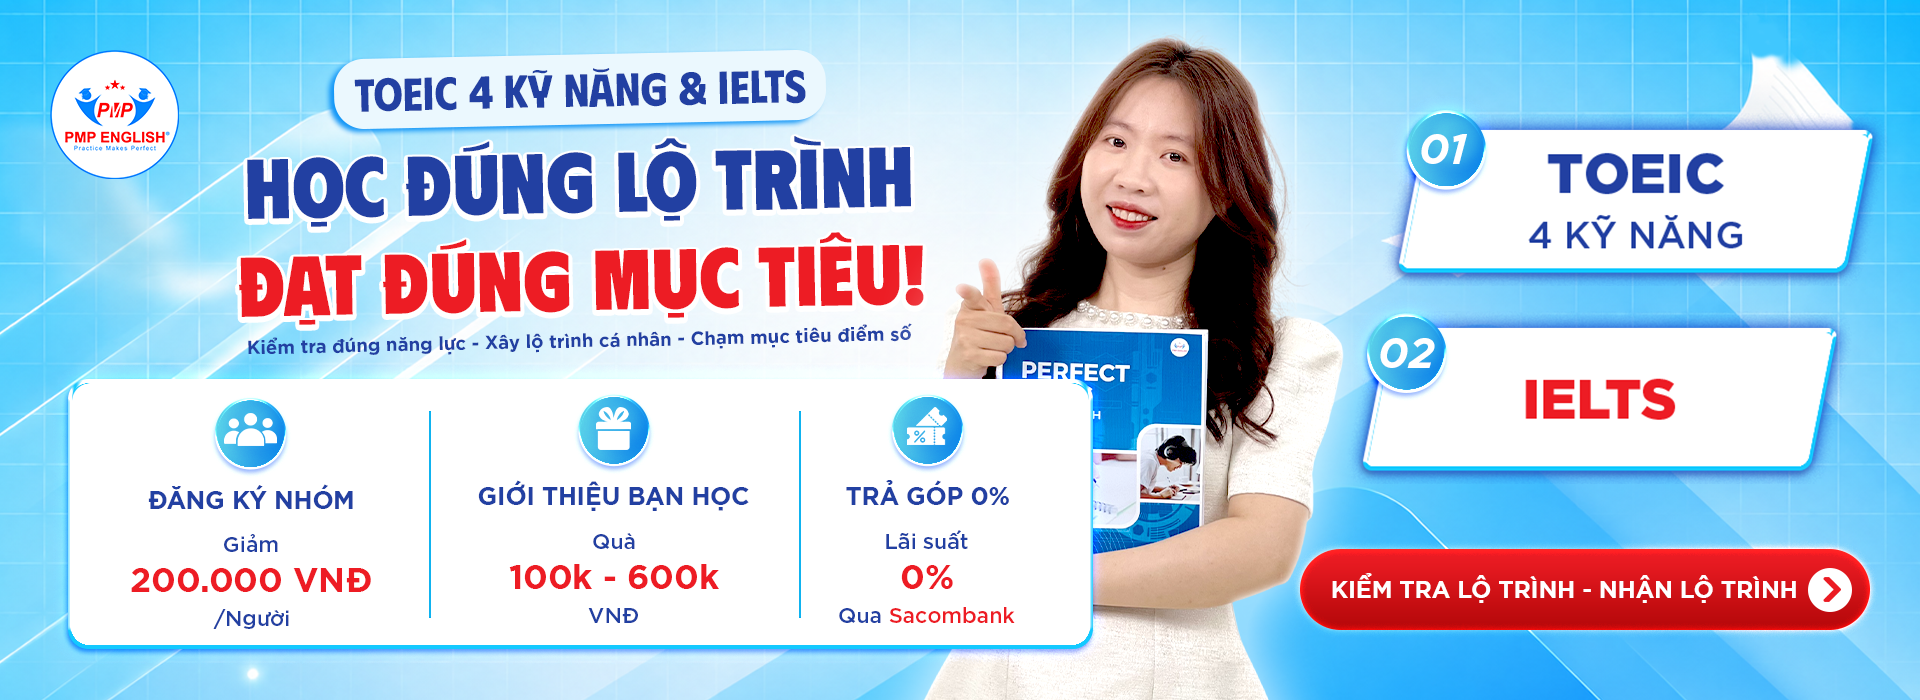
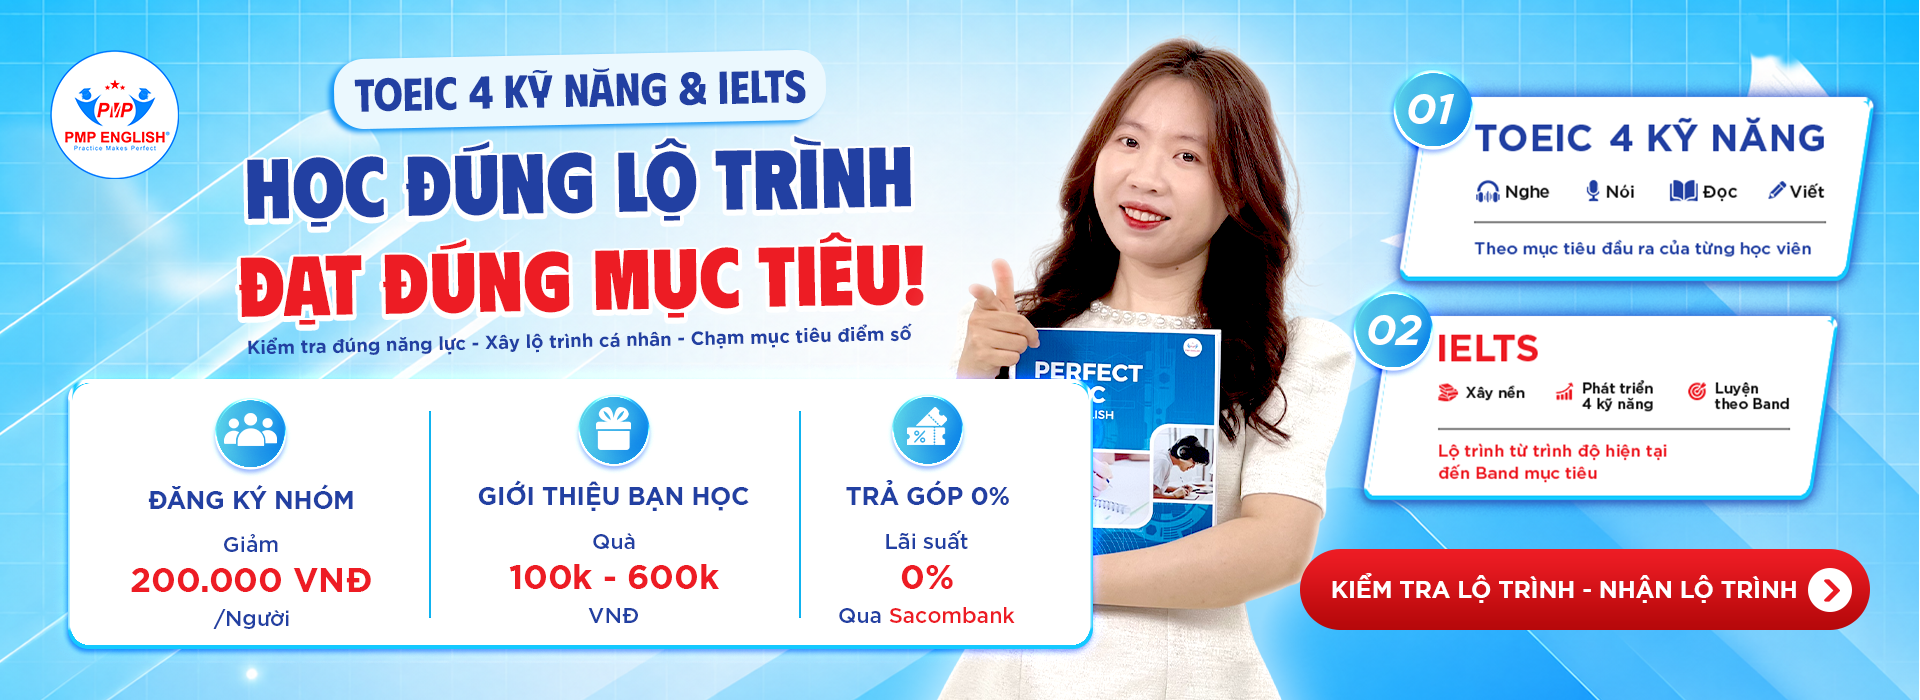
up

diff --git a/index.html b/index.html
@@ -615,7 +615,46 @@
     object-fit: contain;
   }
 }
+/* =========================
+   SCROLL REVEAL ANIMATION
+========================= */
 
+.reveal-left,
+.reveal-right,
+.reveal-up,
+.reveal-down {
+  opacity: 0;
+  transition: 
+    opacity .8s ease,
+    transform .8s ease;
+}
+
+
+/* vị trí ban đầu */
+
+.reveal-left {
+  transform: translateX(-60px);
+}
+
+.reveal-right {
+  transform: translateX(60px);
+}
+
+.reveal-up {
+  transform: translateY(60px);
+}
+
+.reveal-down {
+  transform: translateY(-60px);
+}
+
+
+/* trạng thái hiện */
+
+.reveal-show {
+  opacity: 1;
+  transform: translate(0);
+}
 
 /* =========================================
    DESKTOP
@@ -1195,8 +1234,11 @@ window.addEventListener('scroll', () => {
 </script>
 <!-- 01. SECTION HERO BANNER -->
 <section>
-  <img src="./assets/LANDING PAGE 5-01.png" alt="" class="hidden sm:block w-[100%] h-full">
-  <img src="./assets/Untitled design (5).png" alt="" class="block sm:hidden w-[100%] h-full">
+ <a href="#uu-dai-chinh-sach">
+   <img src="./assets/LANDING PAGE 5-01.png" alt="" class="hidden sm:block w-[100%] h-full">
+     <img src="./assets/Untitled design (5).png" alt="" class="block sm:hidden w-[100%] h-full">
+
+ </a>
 </section>
 <!--  -->
 <section
@@ -1207,7 +1249,7 @@ window.addEventListener('scroll', () => {
   <div class="mx-auto max-w-7xl">
 
     <h2
-      class="font-headline-lg-mobile text-headline-lg-mobile text-black
+      class="font-headline-lg-mobile text-headline-lg-mobile text-black reveal-down  
              text-center capitalize
              md:font-headline-lg md:text-headline-lg"
     >
@@ -1222,7 +1264,7 @@ window.addEventListener('scroll', () => {
 
 
     <!-- SLIDER WRAPPER -->
-    <div class="feature-slider mt-3 md:mt-7">
+    <div class="feature-slider mt-3 md:mt-7 reveal-up  ">
 
       <!-- VIEWPORT -->
       <div class="feature-slider-viewport">
@@ -1769,26 +1811,26 @@ startAutoplay();
 
  <section class="overflow-hidden bg-white px-4  md:px-16">
     <div class="mx-auto max-w-7xl ">
-      <header class="text-center">
+      <header class="text-center reveal-down">
        
         <h2 class="mt-3 font-headline-lg-mobile text-headline-lg-mobile text-black md:font-headline-lg
   text-center
-  md:text-headline-lg capitalize">
+  md:text-headline-lg capitalize ">
           Đừng bắt đầu bằng việc chọn khóa học
         </h2>
         <p class="mx-auto mt-3 max-w-2xl text-sm leading-6 text-on-surface-variant md:text-base">
           Hãy bắt đầu bằng việc xác định đúng trình độ, đúng mục tiêu và đúng lộ trình để không mất thời gian học lan man.
         </p>
-        <div class="mx-auto mt-4 flex w-24 items-center gap-2 text-primary" aria-hidden="true">
+        <!-- <div class="mx-auto mt-4 flex w-24 items-center gap-2 text-primary" aria-hidden="true">
           <span class="h-0.5 flex-1 bg-primary"></span><span class="h-2 w-2 rounded-full bg-primary"></span><span class="h-0.5 flex-1 bg-primary"></span>
-        </div>
+        </div> -->
       </header>
 
       <div>
   <img
     src="./assets/banner34.png"
     alt="Lộ trình học PMP English"
-    class="w-full cursor-pointer transition duration-300 hover:opacity-90"
+    class="w-full cursor-pointer transition duration-300 hover:opacity-90 reveal-up"
     onclick="openModal(['./assets/banner34.png'], 0)"
   >
 </div>
@@ -1850,7 +1892,7 @@ startAutoplay();
   <div class="relative z-10 mx-auto max-w-[1180px]">
 
     <!-- Tiêu đề -->
-    <div class="mx-auto mb-3 sm:mb-6 max-w-[760px] text-center">
+    <div class="mx-auto mb-3 sm:mb-6 max-w-[760px] text-center reveal-down">
       <h2
         class="mt-3 font-headline-lg-mobile text-headline-lg-mobile text-black md:font-headline-lg
   text-center
@@ -1881,7 +1923,7 @@ startAutoplay();
          border border-primary/20 bg-white p-3
          shadow-[0_14px_45px_rgba(0,174,239,.10)]
          transition duration-300 hover:-translate-y-1
-         hover:shadow-[0_20px_55px_rgba(0,174,239,.16)]"
+         hover:shadow-[0_20px_55px_rgba(0,174,239,.16)] reveal-left"
 >
 <!-- Phần cover -->
 <div
@@ -2030,7 +2072,7 @@ startAutoplay();
          border border-secondary/20 bg-white p-3
          shadow-[0_14px_45px_rgba(237,28,36,.10)]
          transition duration-300 hover:-translate-y-1
-         hover:shadow-[0_20px_55px_rgba(237,28,36,.16)]"
+         hover:shadow-[0_20px_55px_rgba(237,28,36,.16)] reveal-right"
 >
   <!-- Phần cover -->
  <div
@@ -2168,14 +2210,14 @@ startAutoplay();
     <!-- HEADING -->
     <!-- ===================================================== -->
 
-    <div class="mx-auto mb-4  text-center">
+    <div class="mx-auto mb-4  text-center reveal-down">
 
 
 
       <h2
        class="font-headline-lg-mobile text-headline-lg-mobile text-black md:font-headline-lg
   text-center
-  md:text-headline-lg capitalize"
+  md:text-headline-lg capitalize "
       >
       Học Viên Nói Gì Và Đạt Được Gì Tại PMP
     </h2>
@@ -2191,7 +2233,7 @@ startAutoplay();
     <!-- SCORE -->
     <!-- ===================================================== -->
 
-    <div class="mb-3 sm:mb-8">
+    <div class="mb-3 sm:mb-8 reveal-up">
 
       <!-- <div class="mb-8 text-center md:text-left">
 
@@ -2319,7 +2361,7 @@ startAutoplay();
 
     <div class="mb-3 sm:mb-8">
 
-      <div class="mb-3 sm:mb-8 text-center">
+      <div class="mb-3 sm:mb-8 text-center reveal-down">
 
         <h3 class="font-headline-lg-mobile text-headline-lg-mobile text-black md:font-headline-lg
   text-center
@@ -2334,7 +2376,7 @@ startAutoplay();
       </div>
 
 
-      <div class="slider-wrapper">
+      <div class="slider-wrapper reveal-up">
 
         <div
           id="feedbackTrack"
@@ -2373,7 +2415,7 @@ startAutoplay();
   <div>
 
 <!-- Heading -->
-<div class="mb-3 sm:mb-8 text-center">
+<div class="mb-3 sm:mb-8 text-center reveal-down">
 
 
   <h3       class="font-headline-lg-mobile text-headline-lg-mobile text-black md:font-headline-lg
@@ -2388,7 +2430,7 @@ startAutoplay();
 <!-- =========================
      VIDEO 1 - VIDEO CHÍNH
 ========================= -->
-<div class="w-full overflow-hidden rounded-2xl bg-primary soft-shadow">
+<div class="w-full overflow-hidden rounded-2xl bg-primary soft-shadow reveal-up">
 
   <a
     href="https://www.youtube.com/watch?v=B5TiRR4YrIk&list=PLeq9KzPj5hMAtFBc28dHOWflrG7FDwinR"
@@ -2422,7 +2464,7 @@ startAutoplay();
 
 
   <!-- YouTube channel -->
-  <div class="flex justify-center">
+  <div class="flex justify-center reveal-up">
 
     <a
       href="https://www.youtube.com/watch?v=B5TiRR4YrIk&list=PLeq9KzPj5hMAtFBc28dHOWflrG7FDwinR"
@@ -5365,7 +5407,7 @@ document.addEventListener("DOMContentLoaded", function () {
   <div class="mx-auto max-w-7xl ">
 
     <!-- Tiêu đề -->
-    <header class="text-center">
+    <header class="text-center reveal-down">
      
 
       <h2
@@ -5383,7 +5425,7 @@ document.addEventListener("DOMContentLoaded", function () {
     </header>
 
     <!-- Danh sách giảng viên -->
-    <div class="mt-3 sm:mt-8 grid grid-cols-1 gap-6 md:grid-cols-2">
+    <div class="mt-3 sm:mt-8 grid grid-cols-1 gap-6 md:grid-cols-2 reveal-up">
 
       <!-- BOX 01 -->
    <article
@@ -5916,11 +5958,11 @@ document.addEventListener("DOMContentLoaded", function () {
           Nguyễn Minh Anh
         </strong>
 
-        tại
+        <!-- tại -->
 
-        <span id="studentToastLocation">
+        <!-- <span id="studentToastLocation">
           TP.HCM
-        </span>
+        </span> -->
 
         vừa đăng ký khóa
 
@@ -6248,7 +6290,7 @@ document.addEventListener("DOMContentLoaded", function () {
      DESKTOP: GRID
 ========================================= -->
 
-<section class="bg-surface-container-low px-4 py-8 md:px-16 md:py-10">
+<section class="bg-surface-container-low px-4 py-8 md:px-16 md:py-10 reveal-down">
 
   <div class="mx-auto max-w-7xl">
 
@@ -7470,7 +7512,7 @@ document.addEventListener("DOMContentLoaded", function () {
 
     <div class="relative mx-auto max-w-7xl px-4 sm:px-6 lg:px-8">
       <div class="grid items-start gap-8 lg:grid-cols-[0.8fr_1.2fr] lg:gap-14">
-        <div class="lg:sticky lg:top-8 hidden sm:block">
+        <div class="lg:sticky lg:top-8 hidden sm:block reveal-left">
           <div class="mb-5 inline-flex hidden sm:inline-flex items-center gap-2 rounded-full bg-white px-4 py-2 text-sm m-auto font-semibold text-primary shadow-sm capitalize">
             <span class="flex h-7 w-7 items-center justify-center rounded-full bg-primary font-bold text-white">?</span>
             Giải đáp cùng PMP English
@@ -7522,7 +7564,7 @@ document.addEventListener("DOMContentLoaded", function () {
           </div>
         </div>
 
-        <div class="rounded-[28px] bg-white p-4 shadow-[0_20px_60px_rgba(15,74,120,0.08)] sm:p-6">
+        <div class="rounded-[28px] bg-white p-4 shadow-[0_20px_60px_rgba(15,74,120,0.08)] sm:p-6 reveal-right">
           <div class="mb-5 flex items-center justify-between gap-4 px-2">
             <div>
               <p class="text-sm font-semibold uppercase tracking-[0.16em] text-primary">FAQ</p>
@@ -7704,7 +7746,7 @@ document.addEventListener("DOMContentLoaded", function () {
 
 <main class=" mx-auto space-y-3 sm:space-y-6 px-margin-mobile py-8 md:px-margin-desktop md:py-[60px] bg-[url('./assets/home-bg-box6-min.jpg')]" >
 <!-- BEGIN: Header Section -->
-<header class="text-center space-y-2 sm:space-y-4">
+<header class="text-center space-y-2 sm:space-y-4 reveal-down">
 <h1 class="font-headline-lg-mobile text-headline-lg-mobile text-black md:font-headline-lg text-secondary
   text-center
   md:text-headline-lg capitalize">Ưu Đãi &amp; Chính Sách</h1>
@@ -7712,10 +7754,10 @@ document.addEventListener("DOMContentLoaded", function () {
 </header>
 <!-- END: Header Section -->
 <!-- BEGIN: Main Content Area -->
-<div class="max-w-6xl w-full m-auto grid grid-cols-1 lg:grid-cols-12 gap-8 items-start">
+<div class="max-w-6xl w-full m-auto grid grid-cols-1 lg:grid-cols-12 gap-8 items-start ">
     
     <!-- CỘT TRÁI: 3 thẻ ưu đãi -->
-    <div class="lg:col-span-6 flex flex-col gap-4">
+    <div class="lg:col-span-6 flex flex-col gap-4 reveal-left">
       
       <!-- Card 1 -->
       <div class="bg-white rounded-2xl p-5 border border-gray-100 shadow-sm flex items-center gap-5 hover:shadow-md transition">
@@ -7759,7 +7801,7 @@ document.addEventListener("DOMContentLoaded", function () {
     </div>
 
     <!-- CỘT PHẢI: Form tư vấn -->
-    <div class="lg:col-span-6 relative bg-white rounded-2xl shadow-xl p-6 sm:p-8 border-t-4 border-primary" id="uu-dai-chinh-sach">
+    <div class="reveal-right lg:col-span-6 relative bg-white rounded-2xl shadow-xl p-6 sm:p-8 border-t-4 border-primary" id="uu-dai-chinh-sach">
       
       <!-- Vạch vàng bên trái mép card -->
       <div class="absolute -left-1 top-1/2 -translate-y-1/2 w-1.5 h-24 bg-primary rounded-r"></div>
@@ -7905,7 +7947,7 @@ document.addEventListener("DOMContentLoaded", function () {
 <!-- SECTION HỆ THỐNG CƠ SỞ -->
 <section class="bg-white px-margin-mobile py-4 md:px-margin-desktop md:py-16">
   <div class="mx-auto max-w-7xl ">
-    <div class="text-center">
+    <div class="text-center reveal-down">
       <!-- <span class="inline-flex rounded-full bg-surface-container-low px-4 py-1.5 font-label-sm font-semibold uppercase tracking-[.05em] text-primary">
         Hệ thống PMP English
       </span> -->
@@ -7919,10 +7961,10 @@ document.addEventListener("DOMContentLoaded", function () {
       </p>
     </div>
 
-    <div class="mt-3 sm:mt-9 grid overflow-hidden rounded-xl bg-surface-container-low p-3 shadow-[0_14px_40px_rgba(1,86,155,.09)] lg:grid-cols-[340px_1fr] lg:gap-4 lg:p-4">
-      <div id="pmpBranchList" class="flex gap-3 overflow-x-auto pb-3 lg:flex-col lg:overflow-visible lg:pb-0"></div>
+    <div class="mt-3 sm:mt-9 grid overflow-hidden rounded-xl  p-3 shadow-[0_14px_40px_rgba(1,86,155,.09)] lg:grid-cols-[340px_1fr] lg:gap-4 lg:p-4">
+      <div id="pmpBranchList" class="flex gap-3 overflow-x-auto pb-3 lg:flex-col lg:overflow-visible lg:pb-0 reveal-left"></div>
 
-      <div class="relative min-h-[390px] overflow-hidden rounded-xl bg-surface-container-high">
+      <div class="relative min-h-[390px] overflow-hidden rounded-xl bg-surface-container-high reveal-right">
         <iframe
           id="pmpMapFrame"
           title="Bản đồ cơ sở PMP English"
@@ -8133,7 +8175,43 @@ document.addEventListener("DOMContentLoaded", function () {
 
   </div>
 </div>
+<script>
+document.addEventListener("DOMContentLoaded", () => {
 
+  const reveals = document.querySelectorAll(
+    ".reveal-left, .reveal-right, .reveal-up, .reveal-down"
+  );
+
+  const observer = new IntersectionObserver(
+    (entries) => {
+
+      entries.forEach(entry => {
+
+        if(entry.isIntersecting){
+
+          entry.target.classList.add(
+            "reveal-show"
+          );
+
+          observer.unobserve(entry.target);
+
+        }
+
+      });
+
+    },
+    {
+      threshold: 0.15
+    }
+  );
+
+
+  reveals.forEach(item => {
+    observer.observe(item);
+  });
+
+});
+</script>
 </body>
 </html>
 
